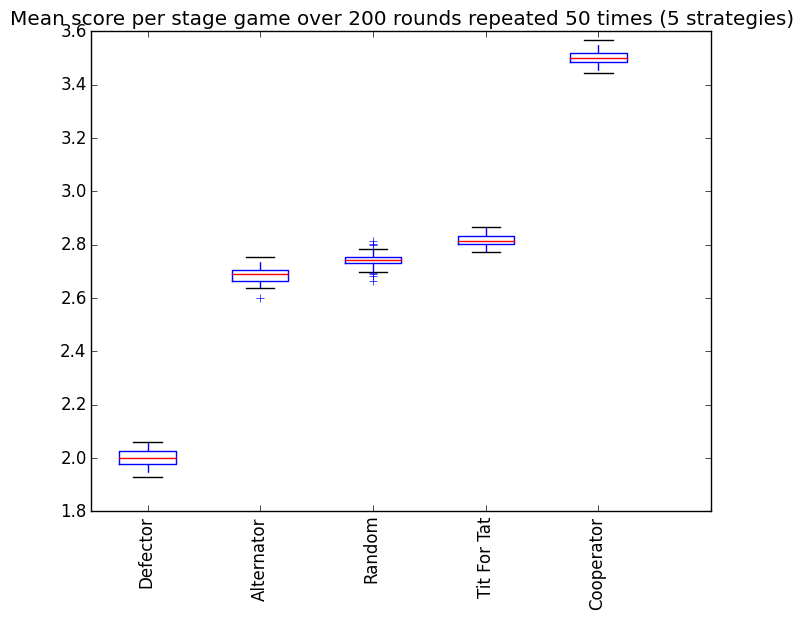
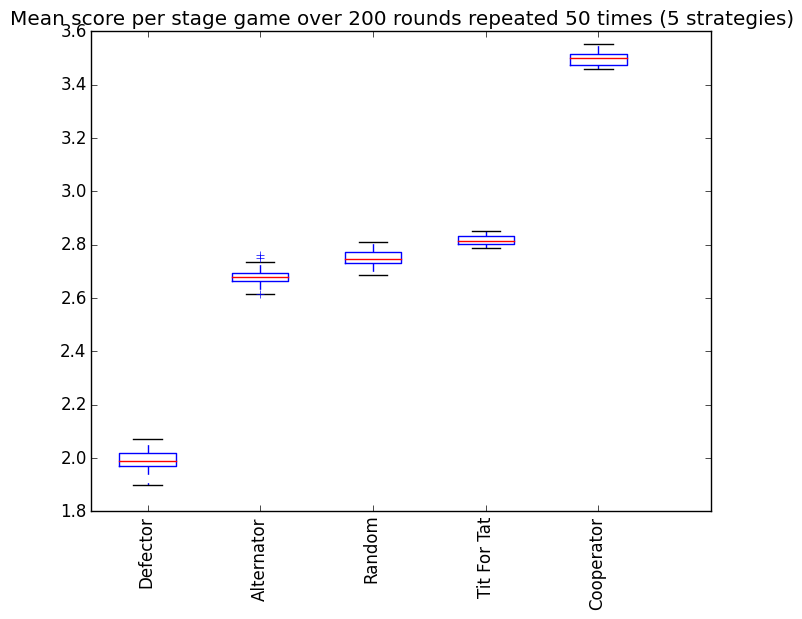
Forcing float division

diff --git a/run_tournament.py b/run_tournament.py
@@ -44,8 +44,7 @@ def run_tournament(turns, repetitions, exclude_basic, exclude_strategies, exclud
 
             # Save plots with the scores.
             boxplot = axelrod.BoxPlot(results)
-            # plt.boxplot(boxplot.dataset())
-            plt.boxplot([s / (results.turns * (len(results.ranking) - 1)) for s in results.scores[results.ranking]])
+            plt.boxplot(boxplot.dataset())
             plt.xticks(boxplot.xticks_locations(), boxplot.xticks_labels(), rotation=90)
             plt.title(boxplot.title())
             plt.savefig(plot, bbox_inches='tight')

diff --git a/axelrod/box_plot.py b/axelrod/box_plot.py
@@ -5,7 +5,7 @@ class BoxPlot(object):
 
     def dataset(self):
         return [
-            s / (self.result_set.turns * (len(self.result_set.ranking) - 1))
+            s / (self.result_set.turns * float((len(self.result_set.ranking) - 1)))
             for s in self.result_set.scores[self.result_set.ranking]]
 
     def xticks_locations(self):
